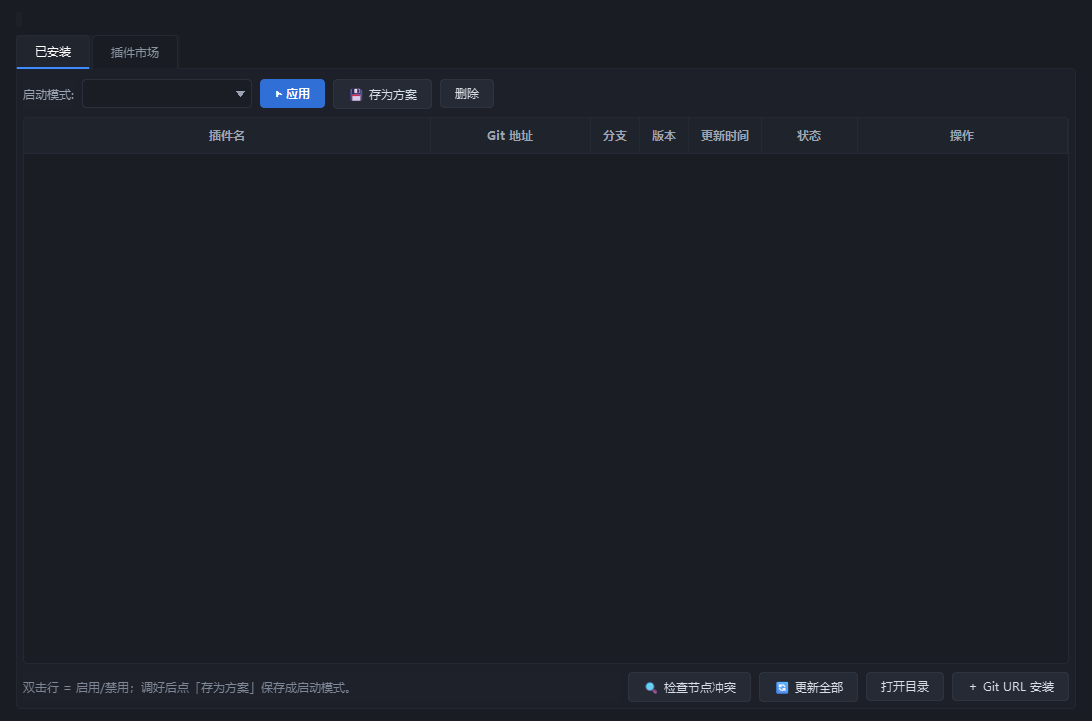
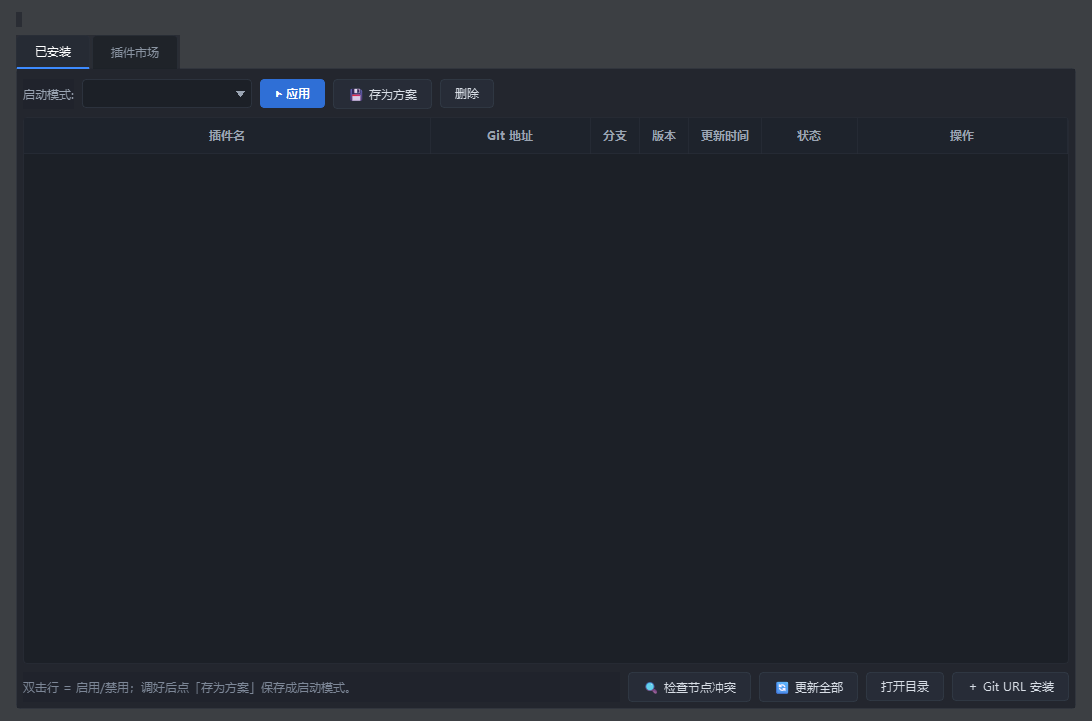
v0.8.22: 自定义背景下内容区透光度与左侧栏对齐(面板系数调轻40%,底板按页面结构分级:表单页薄层/AI页整层) ; 量化验证页面亮度与左栏同档

Changed region(s): [[0.0, 0.0, 1.0, 1.0]]

diff --git a/app/ui/theme.py b/app/ui/theme.py
@@ -556,6 +556,18 @@ def resolve_mode(mode: str) -> str:
     return "dark"
 
 
+def page_scrim_rgba(alpha: float, strength: float = 0.25) -> str:
+    """页面级底板颜色（2026-11-07）。
+
+    strength=0.25：表单页用——底下已叠分组框/卡片多层，页面层只补薄薄一层统一色调；
+    strength=1.0：聊天类页面（AI 助手）用——聊天容器被 custom 主题强制透明、
+    卡片本身很淡，需要页面层自己承担一整层（等效单层左栏）才有可读性。
+    strength 按层叠系数缩放：0.25 → eff*0.25，1.0 → eff*0.6（与全局面板同档）。
+    """
+    eff = max(0.08, min(1.0, float(alpha) ** 1.8 * 0.6))
+    return f"rgba(22,25,31,{eff * strength:.3f})"
+
+
 def build_qss(mode: str = "dark", alpha: float = 0.72) -> str:
     """按模式产出 QSS：dark 原样 / light 换调色板 / custom 深色底 + 面板半透明"""
     resolved = resolve_mode(mode)
@@ -563,8 +575,11 @@ def build_qss(mode: str = "dark", alpha: float = 0.72) -> str:
         return _replace_colors(DARK_QSS, _LIGHT_MAP)
     if resolved == "custom":
         # 面板是多层嵌套的（页面 → 分组 → 卡片），alpha 直接相乘会把背景图吃光：
-        # 三层 55% 只剩 9% 透光。这里做幂次衰减，让滑块的默认值真正肉眼可辨。
-        eff = max(0.08, min(1.0, float(alpha) ** 1.8))
+        # 三层 55% 只剩 9% 透光。幂次衰减缓解一部分。
+        # 2026-11-07 用户要求「右侧 UI 透明度跟左侧栏一致，否则自定义背景失去意义」：
+        # 实测三层 eff=0.6 叠乘后页面亮度只有左栏的 1/3（35 vs 96），
+        # 这里再乘 0.6，让叠乘后的整体透光率接近单层左栏，图能明显透出来。
+        eff = max(0.08, min(1.0, float(alpha) ** 1.8 * 0.6))
         mapping = {c: _rgba(c, eff) for c in _dark_surfaces()}
         # #Backdrop 是主窗背景层（画用户图片），必须透明才能露出图片；
         # QScrollArea 视口本身吃 palette.Base（不透明），不显式置透会把整页涂死

diff --git a/app/ui/main_window.py b/app/ui/main_window.py
@@ -274,22 +274,19 @@ class MainWindow(QMainWindow):
                 except Exception:
                     pass
         # 其余页面统一加底板（2026-11-06）：custom 主题把聊天区等容器强制透明，
-        # 没有底板的页面元素会浮在背景图上。透明度与"面板不透明度"滑块联动。
+        # 没有底板的页面元素会浮在背景图上。
+        # 2026-11-07 用户要求：底板透明度必须与左侧栏一致（theme.page_scrim_rgba），
+        # 不能比左栏实——否则自定义背景图就失去意义了。
         if custom:
-            try:
-                op = max(0, min(100, int((self.cfg.get("settings") or {})
-                                         .get("bg_opacity") or 72)))
-            except Exception:
-                op = 72
-            alpha = max(0.72, min(0.93, 0.72 + (1 - op / 100.0) * 0.21))
+            from app.ui.theme import page_scrim_rgba
+            scrim = page_scrim_rgba(float(info.get("alpha") or 0.72))
         for page in (self.home_page, self.comfyui_page, self.plugins_page,
                      self.env_page, self.models_page, self.workflow_page,
                      self.console_page, self.settings_page):
             if custom:
                 page.setObjectName("PageScrim")
                 page.setAttribute(Qt.WA_StyledBackground, True)
-                page.setStyleSheet(
-                    f"QWidget#PageScrim{{background:rgba(12,16,22,{alpha:.2f});}}")
+                page.setStyleSheet(f"QWidget#PageScrim{{background:{scrim};}}")
             else:
                 page.setAttribute(Qt.WA_StyledBackground, False)
                 page.setStyleSheet("")

diff --git a/app/ui/pages/ai_page.py b/app/ui/pages/ai_page.py
@@ -310,12 +310,16 @@ class AiPage(QWidget):
             self.setAttribute(Qt.WA_StyledBackground, False)
             self.setStyleSheet("")
             return
-        op = max(0, min(100, int(st.get("bg_opacity") or 30)))
-        alpha = max(0.72, min(0.93, 0.72 + (1 - op / 100.0) * 0.21))
+        op = max(0, min(100, int(st.get("bg_opacity") or 72)))
+        from app.ui.theme import page_scrim_rgba
+        # 2026-11-07：聊天容器被 custom 主题强制透明、卡片很淡，
+        # AI 页需要整层底板（strength=1.0，等效单层左栏）才有可读性；
+        # 表单页有分组框兜底，走 main_window 里的薄层（0.25）
+        alpha = page_scrim_rgba(op / 100.0, strength=1.0)
         self.setObjectName("AiPage")
         self.setAttribute(Qt.WA_StyledBackground, True)
         self.setStyleSheet(
-            f"QWidget#AiPage{{background:rgba(12,16,22,{alpha:.2f});}}"
+            f"QWidget#AiPage{{background:{alpha};}}"
             "QWidget#AiPage QScrollArea{background:transparent;}"
             "QWidget#AiPage QScrollArea>QWidget>QWidget{background:transparent;}")
 

diff --git a/tests/test_ai_assistant.py b/tests/test_ai_assistant.py
@@ -869,8 +869,9 @@ _pg.close()
 # 用户报障：换了背景图后 AI 页输入框/快捷指令/顶栏跟着透明，文字浮在图上像 UI 丢了
 _pg2 = _AP({"settings": {"bg_image": "F:/fake/bg.jpg", "bg_opacity": 40}}, _FakeWin())
 _pg2.refresh_backdrop({"mode": "custom"})
+# 2026-11-07：底板颜色与左侧栏同款（rgba(22,25,31,eff)），不再是自拟的更深色
 check("11a 有背景图时加了底板", "AiPage" in _pg2.styleSheet()
-      and "background:rgba(12,16,22," in _pg2.styleSheet(), _pg2.styleSheet()[:60])
+      and "rgba(22,25,31," in _pg2.styleSheet(), _pg2.styleSheet()[:80])
 check("11b 底板用 StyledBackground 才画得出来",
       _pg2.testAttribute(Qt.WA_StyledBackground) is True)
 _pg2.refresh_backdrop({"mode": "dark"})

diff --git a/app/config.py b/app/config.py
@@ -1,4 +1,4 @@
-APP_VERSION = "0.8.21"
+APP_VERSION = "0.8.22"
 
 # -*- coding: utf-8 -*-
 """配置管理：多实例配置持久化 + 自动探测本机 ComfyUI"""

diff --git a/docs/release_v0.8.22.md b/docs/release_v0.8.22.md
@@ -1,0 +1,8 @@
+## 优化
+- **自定义背景下，右侧内容区的透光度与左侧栏对齐**：此前页面底板过实（透明度 0.77+），背景图几乎被盖住，"自定义背景"名存实亡
+- 底板改为**按页面结构分级**：表单类页面（ComfyUI / 系统设置等）用薄层统一色调；AI 助手页因聊天容器被强制透明、卡片较淡，用整层底板保证可读
+- custom 主题下所有面板的半透明系数整体调轻 40%，多层嵌套叠乘后仍能明显看到背景图
+- 「面板不透明度」滑块照常联动整体深浅，觉得太透/太实可随时拖
+
+## 量化
+- 以实测背景图为例：修复前内容区亮度 32（几乎全黑）→ 修复后 49~82（左栏 136 同一观感档），背景图整窗可见
